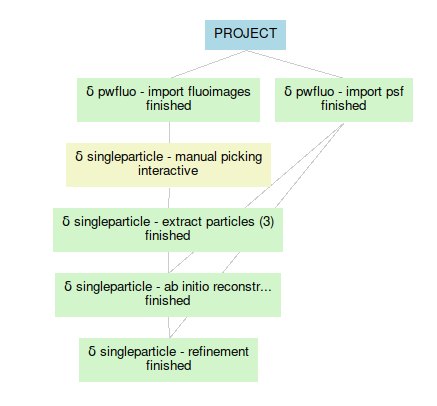
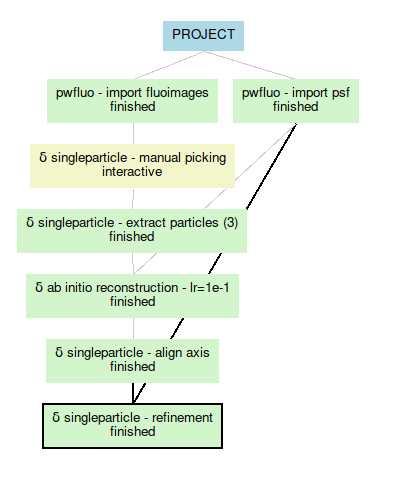
add alignement prot page

diff --git a/source/usage/tutorial/ab-initio.rst b/source/usage/tutorial/ab-initio.rst
@@ -31,3 +31,6 @@ When the protocol is finished, you will have 2 outputs:
  - a set of particles with approximated rotations.
    Here the visualisation is the same as the raw extracted particles, but internally each particle stores a rotation found during the ab initio reconstruction.
    They will be used in the ``refinement`` protocol.
+
+The reconstructed volume might not be aligned with the vertical axis.
+To impose a cylindrical symmetry constraint during the refinement, we first need to align the volume with the `align axis` protocol!

diff --git a/source/usage/tutorial/alignment.rst b/source/usage/tutorial/alignment.rst
@@ -1,0 +1,14 @@
+Alignment
+---------
+
+Select on the left the `align axis` protocol.
+
+This one will take:
+    - a cylindrical particle that needs to be aligned
+    - and (optionnaly) associated particles to rotate accordingly
+
+Select the outputs of the previous ab initio reconstruction protocol.
+
+.. image:: ../../_static/align-axis-prot.png
+
+Once the protocol is executed, vizualize the aligned_volume output. You should the cylindre of the centriole from the top.

diff --git a/source/usage/tutorial/index.rst b/source/usage/tutorial/index.rst
@@ -16,5 +16,6 @@ What's covered here:
    extracting.rst
    import-psf.rst
    ab-initio.rst
+   alignment.rst
    refinement.rst
    experiments.rst
